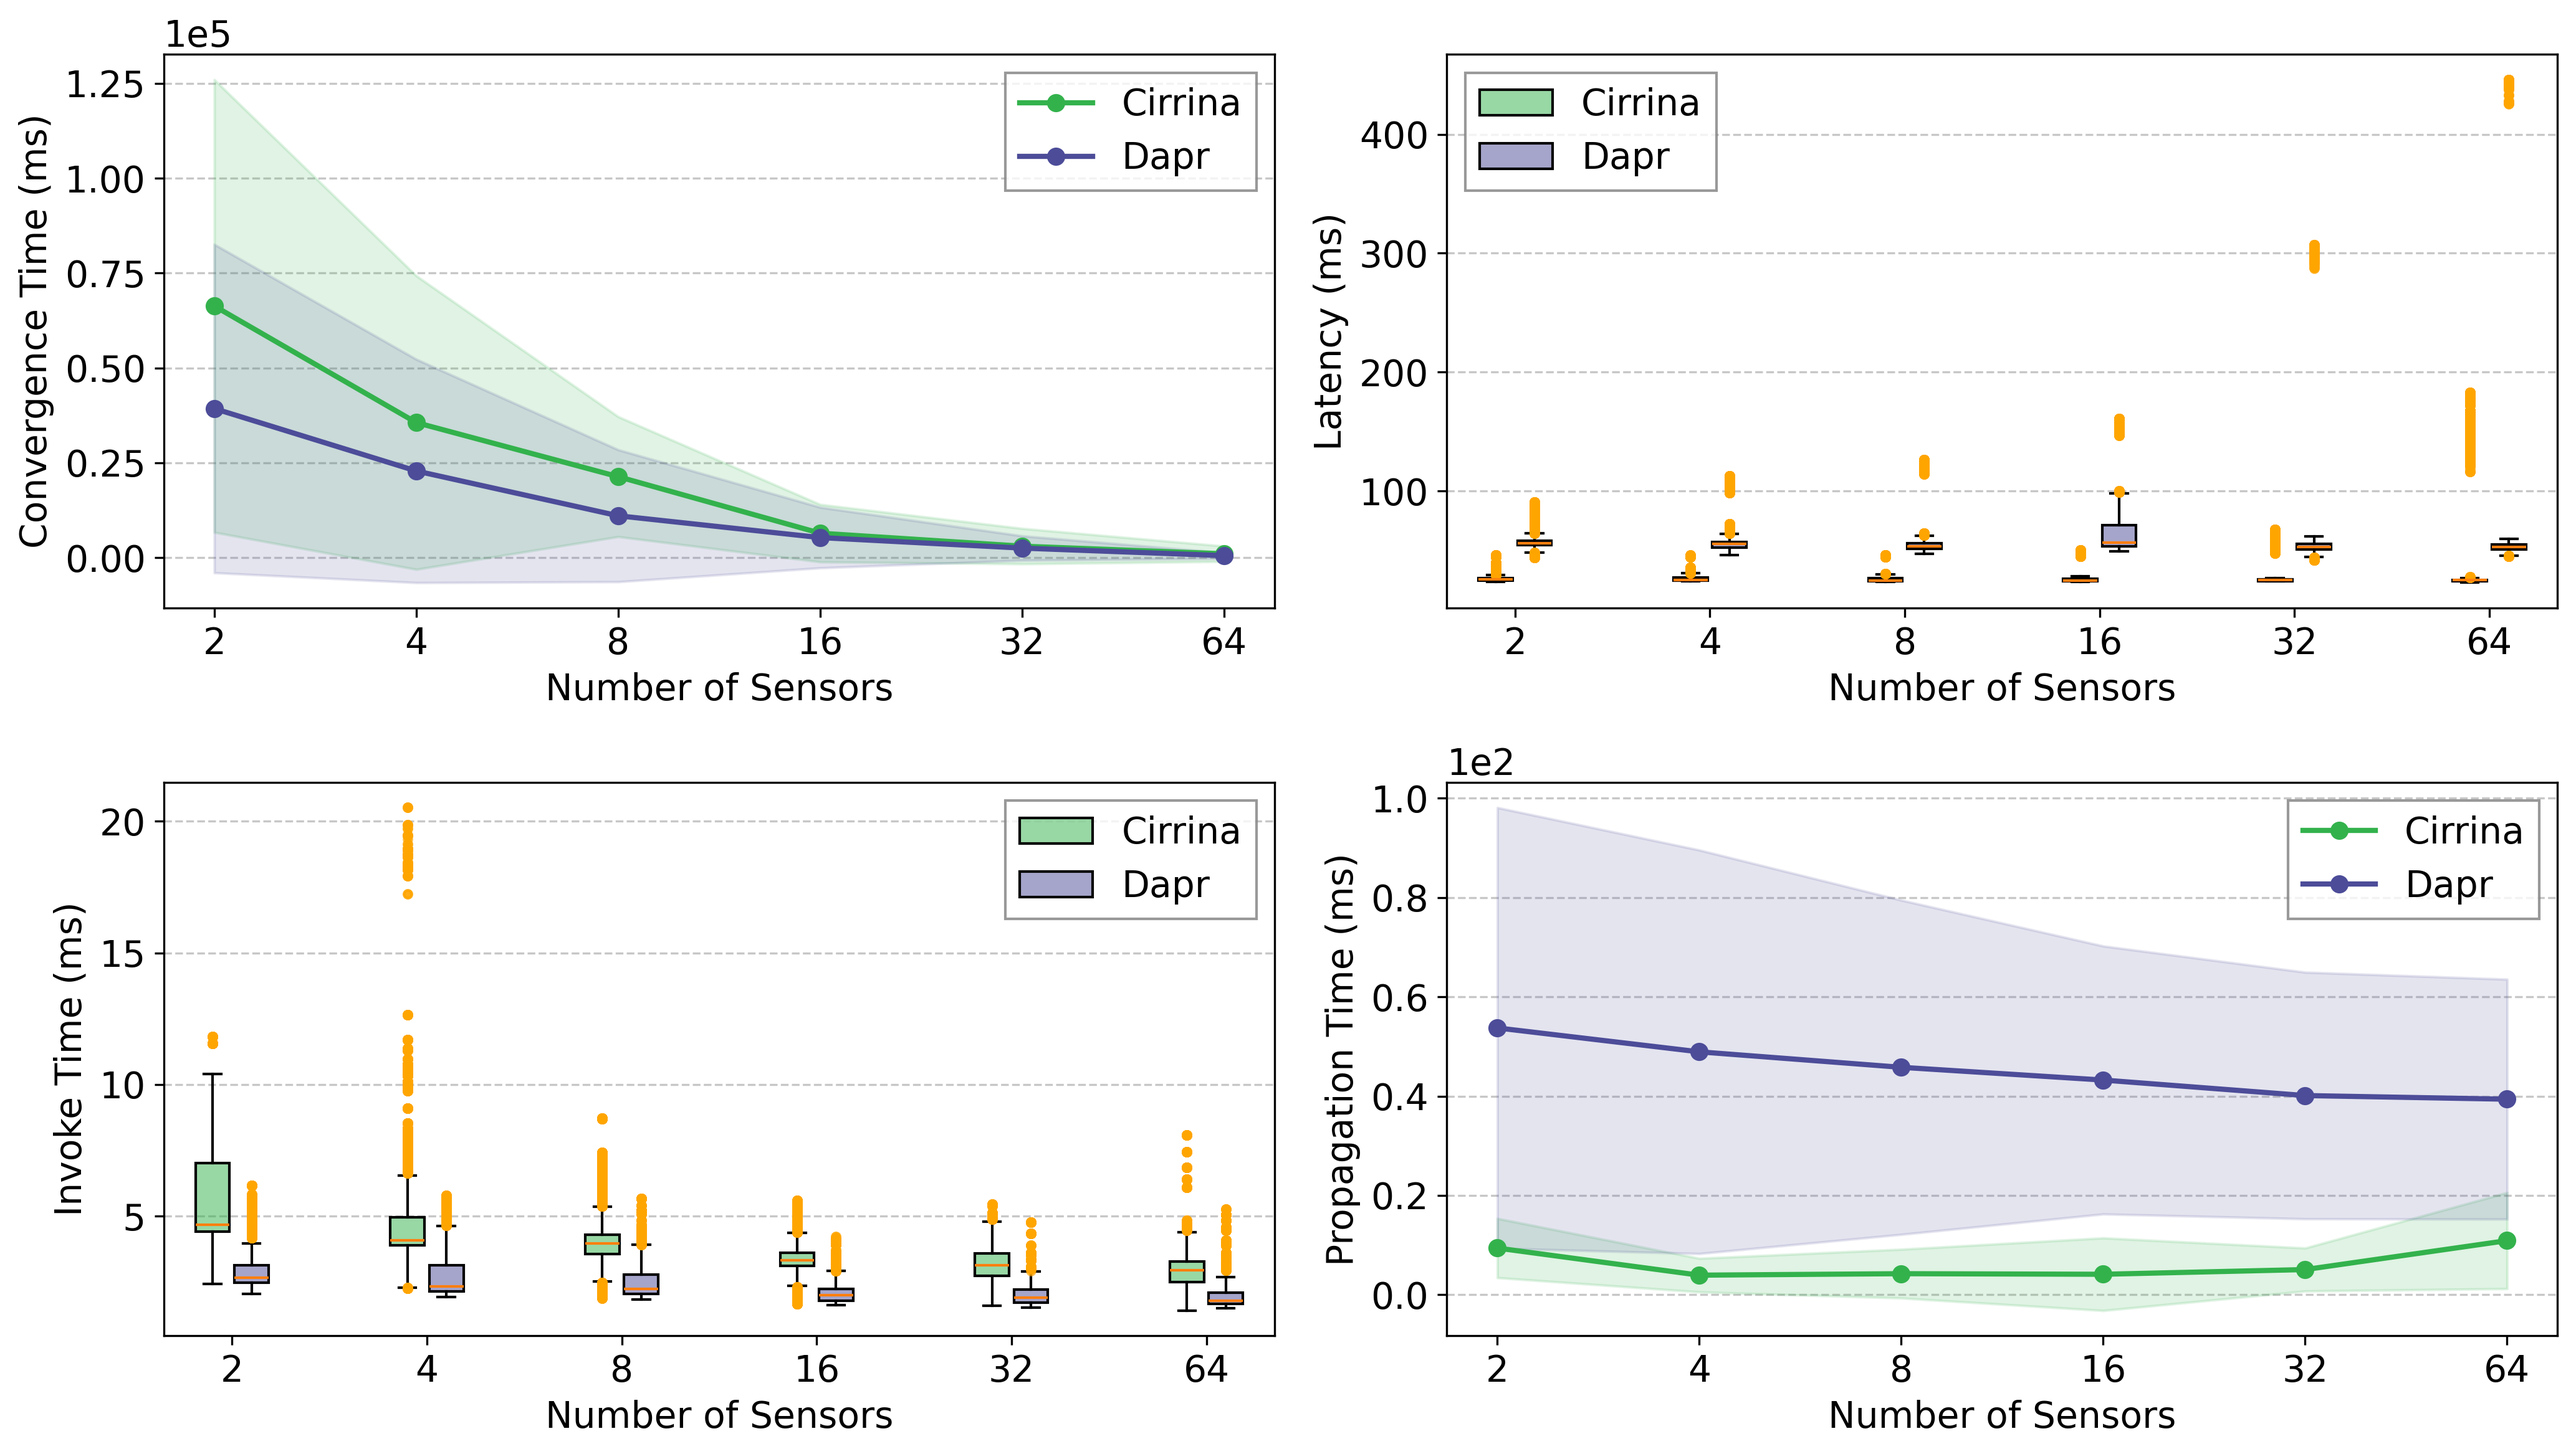
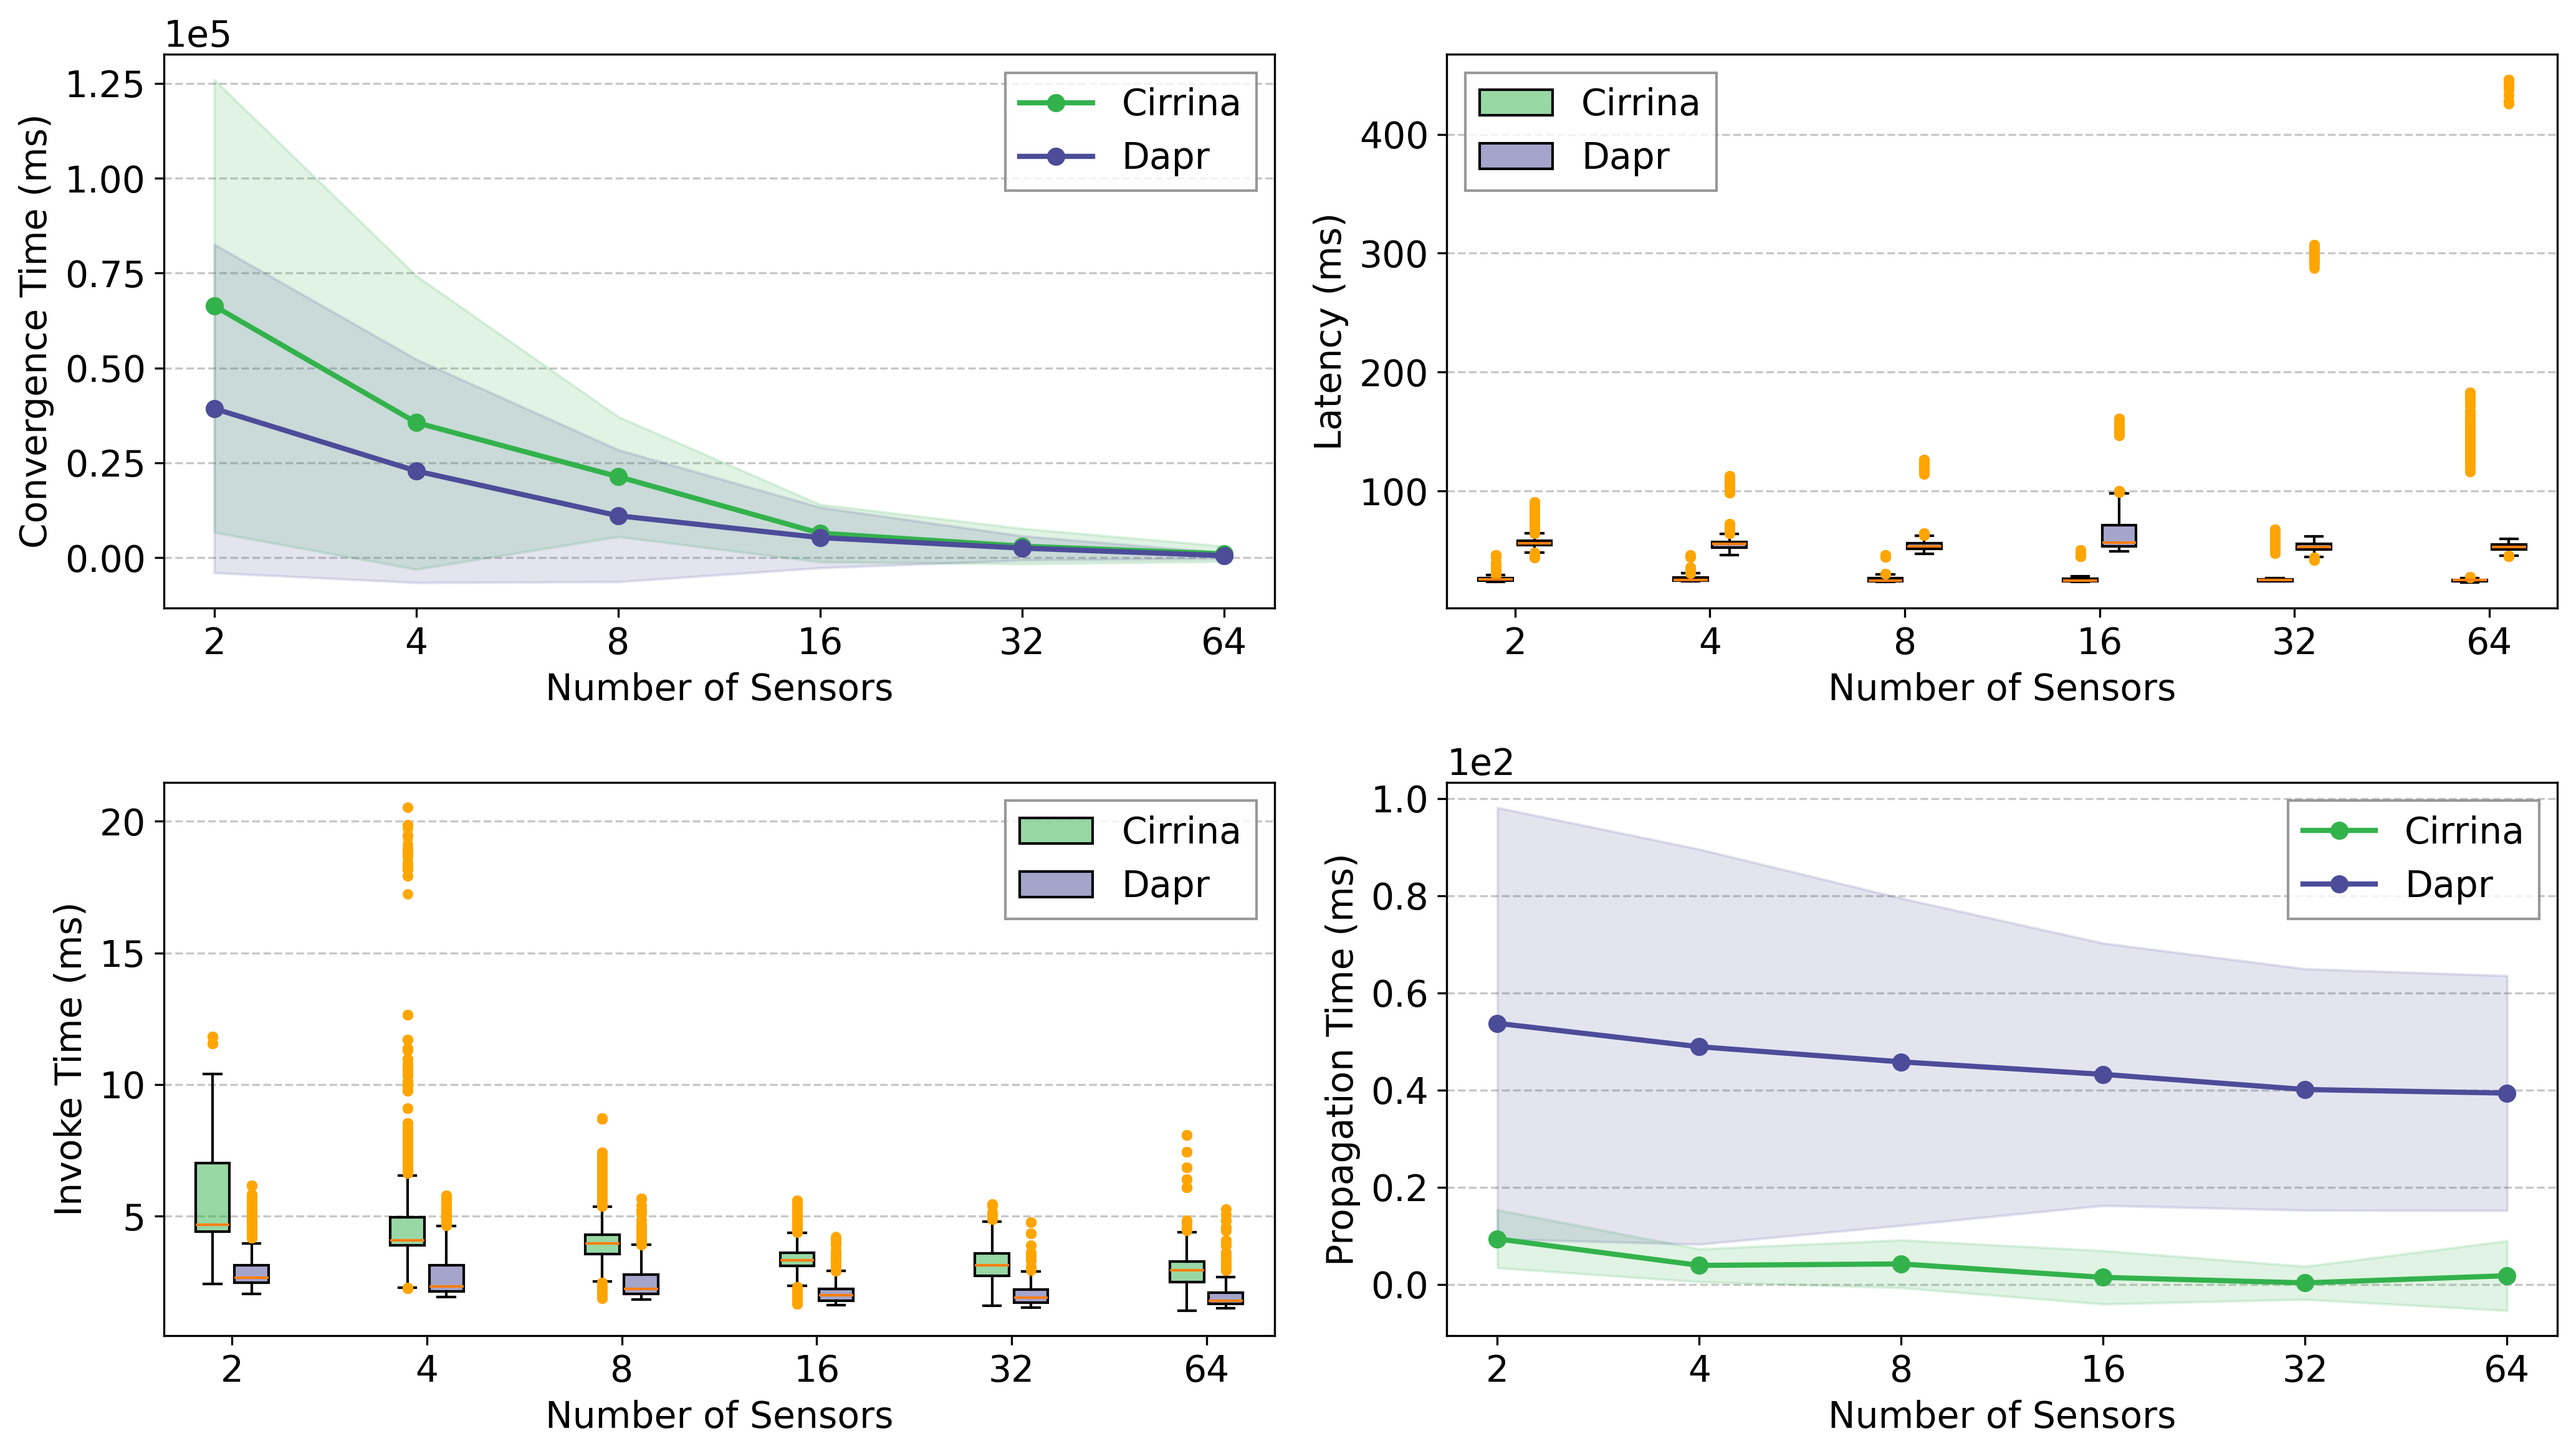
fix: fixing s4 plotting script and plots

diff --git a/src/scenario4/plot/s4_combined_metrics.py b/src/scenario4/plot/s4_combined_metrics.py
@@ -185,12 +185,11 @@ for sys_key, sys_label in systems.items():
             if len(matching) == 0:
                 continue
             propagation_ms = (matching[-1] - fire_detects[i]) / 1_000_000.0
-            if propagation_ms > 0:
-                propagation_records.append({
-                    "System": sys_label,
-                    "Sensors": sensor_count,
-                    "Propagation Time (ms)": propagation_ms,
-                })
+            propagation_records.append({
+                "System": sys_label,
+                "Sensors": sensor_count,
+                "Propagation Time (ms)": propagation_ms,
+            })
 df_propagation = pd.DataFrame(propagation_records)
 
 # ==========================================
@@ -312,8 +311,8 @@ plt.tight_layout()
 output_path = Path("figure") / EXPERIMENT
 output_path.mkdir(parents=True, exist_ok=True)
 
-pdf_file = output_path / "s4_combined_metrics.pdf"
-png_file = output_path / "s4_combined_metrics.png"
+pdf_file = output_path / "s4_combined_metrics_filter.pdf"
+png_file = output_path / "s4_combined_metrics_filter.png"
 
 plt.savefig(pdf_file, bbox_inches="tight")
 plt.savefig(png_file, bbox_inches="tight", dpi=300)
